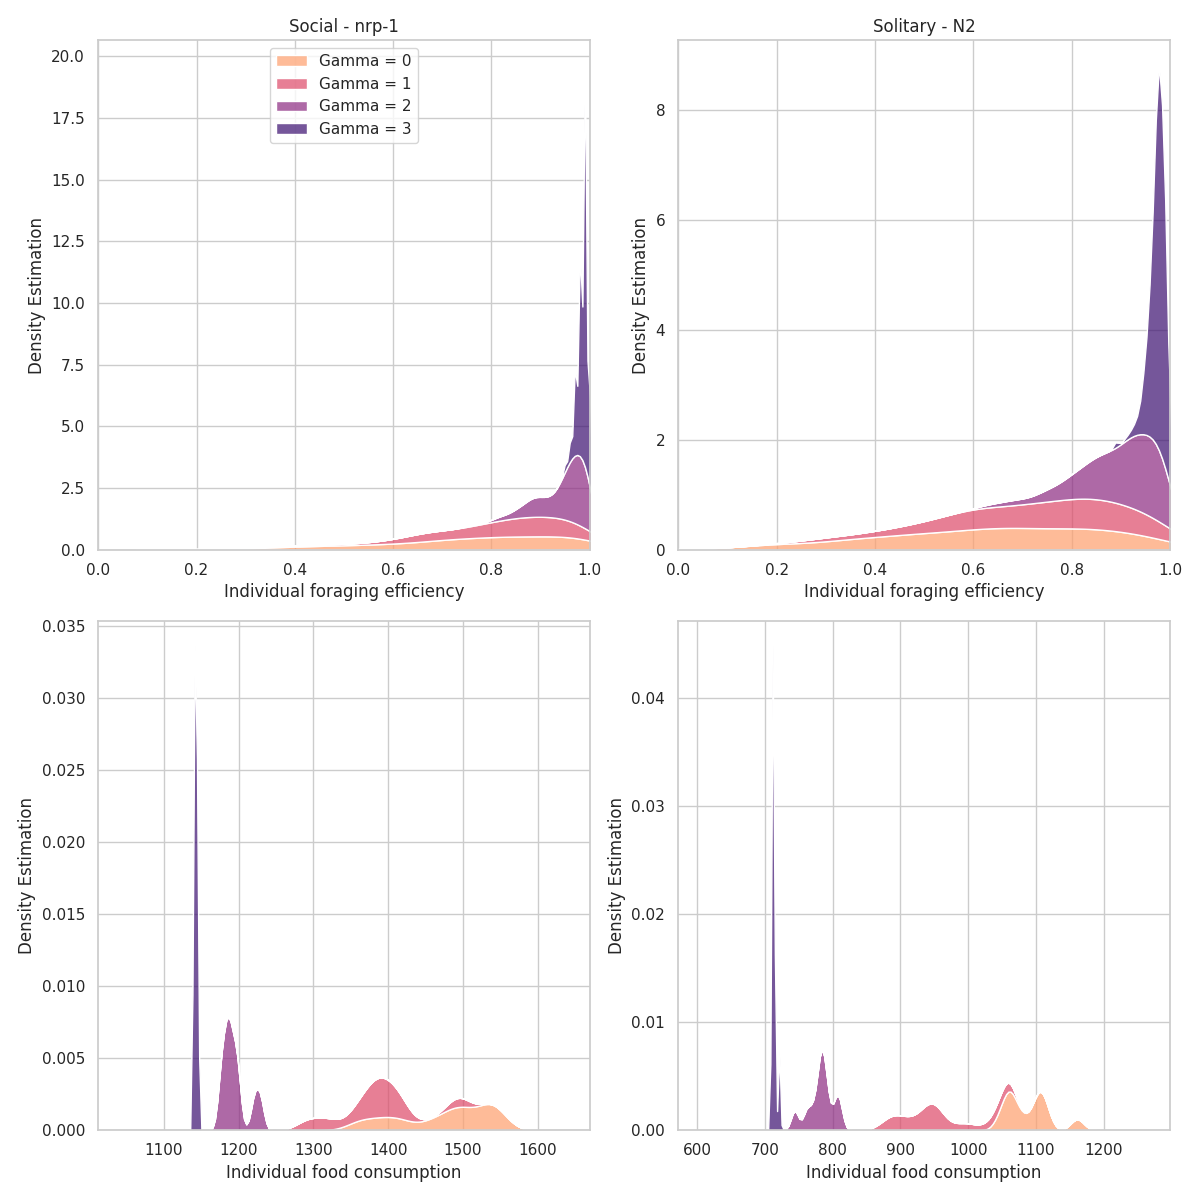
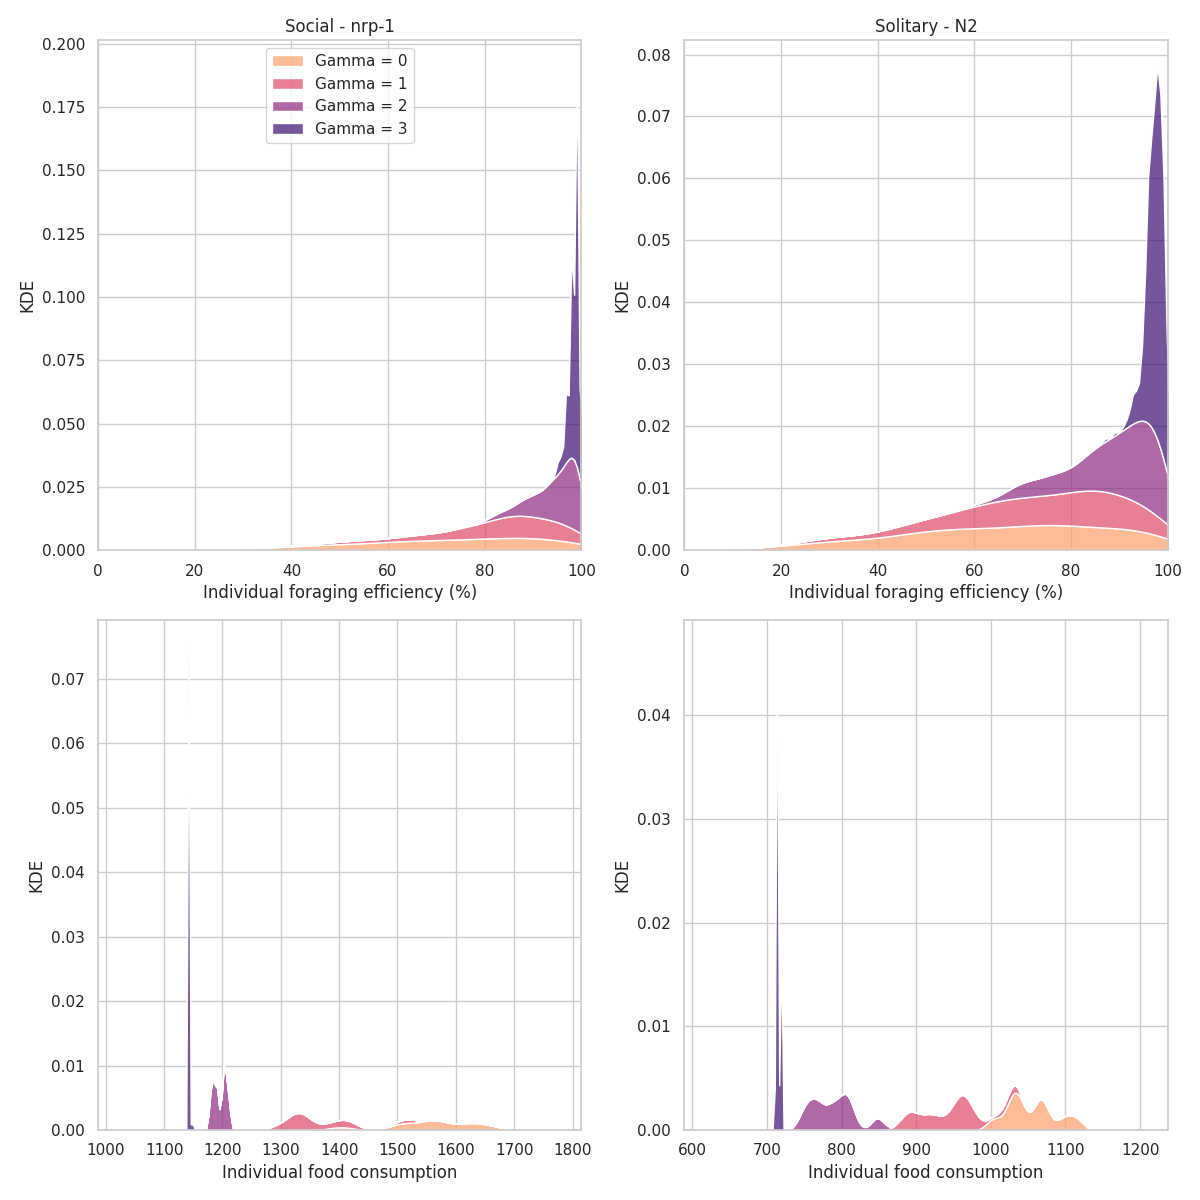
switched to KDE

diff --git a/plotting.py b/plotting.py
@@ -1,4 +1,6 @@
 import os
+
+import numpy as np
 import pandas as pd
 import seaborn as sns
 import matplotlib.pyplot as plt
@@ -53,6 +55,7 @@ def plot_frequencies(file_name: str, legend):
     data = pd.read_csv(csv_dir + file_name + '_frequencies.csv')
     data['Sense Frequency'] = data['Sense Frequency'].apply(ast.literal_eval)
     data['Food consumption'] = data['Food consumption'].apply(ast.literal_eval)
+    data['Sense Frequency'] = data['Sense Frequency'].apply(lambda x: [val * 100 for val in x])
     fig, axes = plt.subplots(2, 2, figsize=(12, 12))
 
     for i, social_value in enumerate([True, False]):
@@ -69,13 +72,15 @@ def plot_frequencies(file_name: str, legend):
         sns.kdeplot(data=p_food, ax=axes[1, i], multiple="stack", legend=False,alpha=.7,palette="magma")
 
 
-        axes[0, i].set_xlim(0, 1)
-        axes[0, i].set_xlabel('Individual foraging efficiency')
-        axes[0, i].set_ylabel('Density Estimation')
+
+
+        axes[0, i].set_xlim(0, 100)
+        axes[0, i].set_xlabel('Individual foraging efficiency (%)')
+        axes[0, i].set_ylabel('KDE')
         axes[0, i].set_title('Social - nrp-1' if social_value else 'Solitary - N2')
 
         axes[1, i].set_xlabel('Individual food consumption')
-        axes[1, i].set_ylabel('Density Estimation')
+        axes[1, i].set_ylabel('KDE')
 
     label = data[data['Social'] == True]
     axes[0, 0].legend(legend + " = " + label[legend].astype(str), loc=9)
